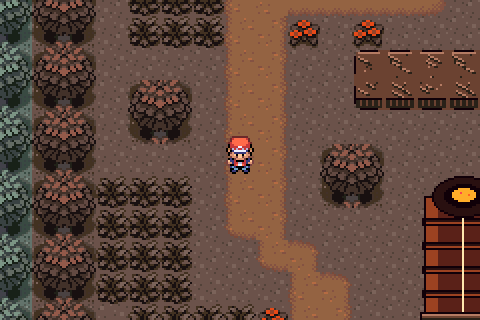
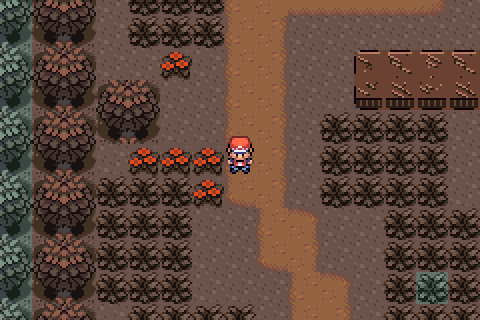
Route 2 v4: single long pipe through the cliff with back door (exit from the rear of the same building)
Claude-Session: https://claude.ai/code/session_01GQJ6VBZbBVtTh4mURN6n2L

diff --git a/docs/topaze/route2_gradient.py b/docs/topaze/route2_gradient.py
@@ -124,12 +124,12 @@ for y in range(2, H - 2, 2):
     tree(0, y); tree(W - 2, y)
 PATH = set()
 WALL_Y0, WALL_Y1 = 28, 33                         # falaise pleine largeur : la foret passe dessous
-HS, HN = (12, 28), (12, 20)                       # portails de pierre 3x3 (coin haut-gauche)
-DOOR_S, DOOR_N = (13, 33), (13, 25)
+HS = (12, 26)                       # portails de pierre 3x3 (coin haut-gauche)
+DOOR_S, DOOR_N = (13, 33), (13, 26)
 RIDGE_Y = [9, 16, 40, 47]
 GAPS = [(15, 20), (4, 9), (4, 9), (16, 21)]       # breches (nord -> sud)
 WAY_S = [(12, H - 3), (12, H - 5), (18, 50), (18, 44), (6, 43), (6, 37), (13, 36), (13, 34)]
-WAY_N = [(13, 26), (9, 26), (6, 20), (6, 13), (17, 12), (17, 6), (13, 3), (13, 1)]
+WAY_N = [(12, 25), (9, 25), (6, 20), (6, 13), (17, 12), (17, 6), (13, 3), (13, 1)]
 def seg(a, b):
     (x0, y0), (x1, y1) = a, b
     n = max(abs(x1 - x0), abs(y1 - y0))
@@ -139,6 +139,7 @@ def seg(a, b):
         PATH.add((int(round(x)) + 1, int(round(y)) + 1))
 for W_ in (WAY_S, WAY_N):
     for a_, b_ in zip(W_, W_[1:]): seg(a_, b_)
+PATH -= {(HS[0] + i, HS[1] + j) for i in range(3) for j in range(8)}
 PATH |= {(12, H - 1), (13, H - 1), (12, H - 2), (13, H - 2), (12, 0), (13, 0), (12, 1), (13, 1)}
 def path_id(x, y):
     N = (x, y - 1) in PATH or y == 0; S = (x, y + 1) in PATH or y == H - 1; Wn = (x - 1, y) in PATH; E = (x + 1, y) in PATH
@@ -157,11 +158,11 @@ for (x, y) in PATH:
 def dil(cells, r):
     return {(x + i, y + j) for (x, y) in cells for i in range(-r, r + 1) for j in range(-r, r + 1)}
 CLEAR = dil(PATH, 1)
-HS_CELLS_ = {(HS[0] + i, HS[1] + j) for i in range(3) for j in range(6)}
+HS_CELLS_ = {(HS[0] + i, HS[1] + j) for i in range(3) for j in range(8)}
 # ---- panneaux, PNJ, objets (cases reservees avant les falaises)
 SIGN_S, SIGN_N = (10, H - 4), (10, 5)
 NPC = {'hiker': (21, 52), 'miner': (18, 20), 'ether': (21, 43), 'heal': (21, 5)}
-RES = dil([SIGN_S, SIGN_N] + list(NPC.values()), 1) | dil({(HN[0] + i, HN[1] + j) for i in range(3) for j in range(6)}, 1) | dil(HS_CELLS_, 1)
+RES = dil([SIGN_S, SIGN_N] + list(NPC.values()), 1) | dil(HS_CELLS_, 1)
 for c in NPC.values(): OCC[c] = 'pnj'
 # ---- falaise pleine largeur (la foret passe dessous) ; les deux portails sont dedans / devant
 rnd = random.Random(2020)
@@ -171,7 +172,7 @@ def wob(seed_):
         v = max(-1, min(1, v + r.choice((-1, 0, 0, 1)))); out.append(v)
     return out
 WALL = set(); BLOB = {}; RIDGE = set()
-HS_CELLS = {(HS[0] + i, HS[1] + j) for i in range(3) for j in range(6)}
+HS_CELLS = {(HS[0] + i, HS[1] + j) for i in range(3) for j in range(8)}
 wt, wbm = wob(5), wob(9)
 for x in range(2, W - 2):
     top = WALL_Y0 + (1 if wt[x] > 0 else 0); bot = WALL_Y1 - (1 if wbm[x] < 0 else 0)
@@ -305,25 +306,34 @@ def vent_img(st):
     d.point((8, 7), fill=12)
     return im
 def tube_img(st):
-    im = ground_bg(48, 96, st); d = ImageDraw.Draw(im)
-    d.ellipse((0, 86, 47, 95), fill=13)
-    d.rectangle((4, 10, 43, 86), fill=7, outline=5)
-    d.rectangle((5, 11, 10, 85), fill=8); d.rectangle((38, 11, 42, 85), fill=6)
-    for y in range(22, 70, 12):
+    im = ground_bg(48, 128, st); d = ImageDraw.Draw(im)
+    d.ellipse((0, 118, 47, 127), fill=13)
+    d.rectangle((4, 16, 43, 118), fill=7, outline=5)
+    d.rectangle((5, 17, 10, 117), fill=8); d.rectangle((38, 17, 42, 117), fill=6)
+    for y in range(34, 100, 12):
         d.line([(5, y), (42, y)], fill=6); d.line([(5, y + 1), (42, y + 1)], fill=8)
         d.rectangle((3, y - 1, 44, y + 2), outline=5)
-    d.line([(23, 12), (23, 68)], fill=9)
-    d.ellipse((8, 0, 39, 20), fill=6, outline=5); d.ellipse((14, 4, 33, 15), fill=5)
-    d.ellipse((18, 6, 29, 12), fill=11); d.point((22, 8), fill=12); d.point((26, 9), fill=10)
-    d.rectangle((2, 68, 45, 88), fill=14, outline=5)
-    for y in range(71, 88, 5):
+    d.line([(23, 22), (23, 96)], fill=9)
+    d.ellipse((13, 56, 34, 74), fill=6, outline=5); d.ellipse((17, 60, 30, 70), fill=5)
+    d.ellipse((20, 62, 27, 68), fill=11); d.point((23, 64), fill=12); d.point((25, 66), fill=10)
+    d.rectangle((2, 0, 45, 20), fill=14, outline=5)
+    for y in range(4, 20, 5):
         d.line([(3, y), (44, y)], fill=13)
         for x in range(5 + (y % 2) * 4, 44, 8): d.line([(x, y), (x, y + 4)], fill=13)
-    d.line([(3, 69), (44, 69)], fill=15)
-    d.rectangle((18, 77, 29, 91), fill=5); d.ellipse((18, 72, 29, 82), fill=5)
-    d.rectangle((20, 79, 27, 91), fill=6); d.ellipse((20, 74, 27, 81), fill=6)
-    d.line([(21, 91), (26, 91)], fill=8)
-    for lx in (13, 34): d.rectangle((lx, 79, lx + 1, 82), fill=11); d.point((lx, 78), fill=12)
+    d.line([(3, 19), (44, 19)], fill=15)
+    d.rectangle((18, 4, 29, 15), fill=5); d.ellipse((18, 0, 29, 9), fill=5)
+    d.rectangle((20, 6, 27, 15), fill=6); d.ellipse((20, 2, 27, 9), fill=6)
+    d.line([(21, 15), (26, 15)], fill=8)
+    for lx in (13, 34): d.rectangle((lx, 5, lx + 1, 8), fill=11); d.point((lx, 4), fill=12)
+    d.rectangle((2, 100, 45, 120), fill=14, outline=5)
+    for y in range(103, 120, 5):
+        d.line([(3, y), (44, y)], fill=13)
+        for x in range(5 + (y % 2) * 4, 44, 8): d.line([(x, y), (x, y + 4)], fill=13)
+    d.line([(3, 101), (44, 101)], fill=15)
+    d.rectangle((18, 109, 29, 123), fill=5); d.ellipse((18, 104, 29, 114), fill=5)
+    d.rectangle((20, 111, 27, 123), fill=6); d.ellipse((20, 106, 27, 113), fill=6)
+    d.line([(21, 123), (26, 123)], fill=8)
+    for lx in (13, 34): d.rectangle((lx, 111, lx + 1, 114), fill=11); d.point((lx, 110), fill=12)
     return im
 def house_img(st):
     """portail de pierre 3x3 (la porte est la case basse centrale)."""
@@ -364,7 +374,7 @@ for st in range(3): ART[('sign', st)] = meta(sign_art(st), st)
 for st in range(3):
     ART[('vent', st)] = meta(vent_img(st), st); ART[('stump', st)] = meta(stump_img(st), st)
     pass
-b = tube_img(2); ART[('tube', 2)] = {(i, j): meta(b.crop((i * 16, j * 16, i * 16 + 16, j * 16 + 16)), 2) for j in range(6) for i in range(3)}
+b = tube_img(2); ART[('tube', 2)] = {(i, j): meta(b.crop((i * 16, j * 16, i * 16 + 16, j * 16 + 16)), 2) for j in range(8) for i in range(3)}
 def rock_img(mask, st, var):
     """case de falaise ; mask = bits N(1) E(2) S(4) O(8) : 1 si la voisine est aussi de la roche. Indices : 14 corps, 15 clair, 13 face sombre, 5 contour."""
     im = ground_bg(16, 16, st); d = ImageDraw.Draw(im)
@@ -412,12 +422,12 @@ art_big(*STONE)
 claim(*SIGN_S, 1, 1, 'panneau'); ART_PLACE[SIGN_S] = ART[('sign', 0)]
 claim(*SIGN_N, 1, 1, 'panneau'); ART_PLACE[SIGN_N] = ART[('sign', 2)]
 DOORS = {DOOR_S, DOOR_N}
-for (hx, hy), nm in ((HS, 'portail sud'), (HN, 'portail nord')):
-    for j in range(6):
+for (hx, hy), nm in ((HS, 'tuyau'),):
+    for j in range(8):
         for i in range(3):
             c = (hx + i, hy + j)
             if c in OCC and OCC[c] == 'roche': del OCC[c]
-    claim(hx, hy, 3, 6, nm)
+    claim(hx, hy, 3, 8, nm)
     for (i, j), k in ART[('tube', 2)].items(): ART_PLACE[(hx + i, hy + j)] = k
 for c in NPC.values(): assert c not in ART_PLACE, ('PNJ sur un decor', c)
 # ---- bosquets d'arbres

diff --git a/tools/topaze/emu/t_route2d.py b/tools/topaze/emu/t_route2d.py
@@ -14,4 +14,4 @@ path = [tuple(c) for c in info['path']]
 for y in (6, 13, 19):
     tgt = next(c for c in path if c[1] == y and tuple(c) not in P.B); print(tgt, goto(tgt, maxit=30))
 print(sh(['shot r2_north.ppm']))
-print('portail nord ->', goto((13, 26), maxit=30), sh(['key UP 40', 'run 120', 'shot r2_forestN.ppm']))
+print('portail nord ->', goto((13, 25), maxit=30), sh(['key DOWN 40', 'run 120', 'shot r2_forestN.ppm']))

diff --git a/docs/technique/ARCHITECTURE.md b/docs/technique/ARCHITECTURE.md
@@ -50,7 +50,7 @@ Le dépôt est celui de pokefirered ; seuls les éléments modifiés pour Topaze
 | **Opanihrum v1 – la cité de l'Opale noire (arène d'Hepha, Acier)** | Ville 42×40 (slot de Jadielle, `LAYOUT_VIRIDIAN_CITY`) construite avec les décors de **Rustboro** (pierre grise d'Émeraude) recolorés en ardoise bleu-nuit (« plus il est sombre, plus il cache de couleurs », cf. dialogue d'Hepha) + art procédural : monument d'opale noire à reflets irisés, enclumes, lingots. `docs/topaze/opanihrum_town.py` (génère carte + tilesets `general_opal` / `rustboro_opal`, **secondaire compacté** : seules les métatuiles utilisées sont gardées, 161+49 tuiles sur 384) puis `opanihrum_events.py`. Rendu d'aide au choix des morceaux : `docs/topaze/emrender.py` (`../pokeemerald` doit avoir `data/layouts/RustboroCity` en sparse-checkout). Bâtiments : **fonderie** (10×9, arène, 2 portes en (8,11)/(9,11), verrouillée par `VAR_MAP_SCENE_VIRIDIAN_CITY_GYM_DOOR`), école, maison, Centre (16,20), Boutique (27,20) + 6 bâtiments décoratifs, fontaine, parc, parterres, lampadaires, grille de fer. Vieil homme (barrage/tutoriel de capture) déplacé à la **porte nord** (20,2), déclencheur (21,2). Sorties = **warps** : nord Route 2 (`x=7..11,y=79`), sud Route 1 (`x=10..13,y=0`), ouest Route 22 (`x=47,y=6..9`) ; `IsTopazeStepWarpMap()` étendu à `LAYOUT_VIRIDIAN_CITY`/`ROUTE2`/`ROUTE22`. Respawn du Centre mis à jour (`heal_locations.h`). Ordre : `opanihrum_town.py` → `opanihrum_events.py` → supprimer `build/firered/data/maps.o` → `make`. Rendu : `docs/topaze/reference/opanihrum_v1.png`. |
 | **Pyropia v3 « en terrasses » – la cité du volcan (arène de Kay, Feu)** | Ville 48×40 (slot d'Argenta, `LAYOUT_PEWTER_CITY`) refaite avec les décors de **Lavaridge** (falaises rouges, bassin, arène, maisons à écailles) recolorés en braise : cendre sombre, terre brûlée, **bassin = lac de lave** (teinte HLS de la palette 8, comportement « eau » retiré : pas de Surf) + art procédural (vents de braise, braseros, obsidienne, **cairn de flamme** 3×3). `docs/topaze/pyropia_town.py` (carte + tilesets `general_ember` / `lavaridge_ember`, secondaire compacté 43+47 tuiles, **variantes miroir** pour la falaise est) puis `pyropia_events.py`. **v3 (« la ville est plate »)** : relief en **3 terrasses décalées** (sommet : arène entre deux lacs de lave ; milieu : Centre, Boutique, musée ; bas : maisons et place du cairn) séparées par des **murs de soutènement de 2 cases** (bandeau 625 + face 628) avec **escaliers** dessinés, joint vertical en falaise miroir ; grand lac de lave est (rectangle bordé de roche, `lake()`). L'avenue monte en ligne droite de la sortie sud à l'arène ; rue du milieu, rue du bas, rue est (sortie est → Route 3 en (47,25..26)). La v2 plate est gardée : `docs/topaze/reference/pyropia_v2.{png,py}`. Avant (v2) : **v3d** : toits du Centre et de la Boutique rétablis (rangée du haut gardée avec un **fond d'herbe** à la place de la falaise : option `ground` de `remap()`), coins des lacs sans morceaux de falaise (même option), murs de pins continus le long des bords (plus de trous), bandeau du bas en 620. **v3c** : musée = **façade dessinée** (colonnade, fronton « MUSEUM », 2 portes, bannière de flamme, `museum_art()` 160×64) ; 2 **maisons enterrables en plus** (près de l'arène, et à l'est) = nouvelles cartes `PewterCity_House3/4` (copie de l'intérieur House2, générées par `docs/topaze/pyropia_houses.py` : carte, scripts, textes, `map_groups.json`, `event_scripts.s`) ; 6 **PNJ d'ambiance** (mineur, enfant, scientifique, guide, grand-mère, campeur ; textes provisoires). Ordre : `pyropia_houses.py` → `pyropia_town.py` → `pyropia_events.py`. **v3b** : plus aucune maison sans porte : seules restent les 2 maisons qui ont un intérieur ; les vides sont comblés par des **cratères de lave** et des **amas d'obsidienne** (art 3×3), le musée redevient une **grande halle rouge 10×4 à 2 portes** (comme l'original), Centre et Boutique sans la rangée de toit qui montrait des morceaux de falaise ; `pyropia_town.py` vérifie par assertion que portes, sorties et escaliers forment **un seul réseau de chemins**. Sorties = **warps** (`IsTopazeStepWarpMap()` étendu à `LAYOUT_PEWTER_CITY`/`ROUTE3`), Route 2 (8..11,0) et Route 3 (0,9..12). Guides scriptés d'origine (guide de l'arène, du musée, assistant aux chaussures, arbre à couper) retirés/cachés (OnTransition) car leurs trajets étaient codés en dur ; chaussures de course déjà données au début. **Respawn du Centre** : désormais dans `src/data/heal_locations.json` (le `.h` est généré et ignoré par git ; l'ancienne édition du `.h` pour Opanihrum était perdue à chaque régénération : corrigée). Rendu : `docs/topaze/reference/pyropia_v2.png`. L'ancienne version (Argenta repeinte, `volcanic_pyropia.py`) est conservée dans l'historique. |
 | **Route 1 « route du dégradé » (carte entièrement nouvelle 26×54)** | `docs/topaze/route1_gradient.py` puis `route1_events.py`. Les couleurs glissent du **grenat** (sud, Grenalux) au **violet** puis à l'**opale noire** (nord, Opanihrum) : 3 étages de palettes (mélange en teinte HLS par le violet) ; les métatuiles d'Émeraude (herbe, arbres, fleurs, herbe haute, sable) sont recopiées dans le tileset secondaire `gradient_road` avec d'autres numéros de palette (emplacements : étage 0 = primaire 0,2,5 ; étage 1 = primaire 1,3,4 ; étage 2 = secondaire 7,8,9 ; art 6/10/11 ; panneau 12), l'étage de chaque case suit le gradient sud→nord + un champ lisse + un grain (fondu irrégulier). Chemin sinueux, 10 zones d'herbes hautes (rencontres), cristaux épars (prismes de grenat → dômes d'opale) et « pierre du dégradé » (3×3). Warps : sud (12..13,53) ↔ Grenalux, nord (14..17,0) ↔ Opanihrum. Le garçon et le panneau ont de nouveaux textes (plus de corniches). Primaire `general_gradient`. Rendu : `docs/topaze/reference/route1_gradient_v1.png`. **v5 (actuelle)** : transitions arbres/herbe corrigées (arbres et herbe de bordure ou voisine d'un arbre prennent le même étage lissé, sans grain). Rendu : `route1_gradient_v5.png`. **v4 (gardée de côté : `reference/route1_gradient_v4.{png,py}`, branche `route1-gradient-v4-reference`)** : retour « trop longue, le joueur va tout droit » → carte raccourcie **26×38** et chemin **obligatoirement en zigzag** : 4 crêtes de roche quasi pleine largeur (bords ondulés) avec chacune une brèche, côtés alternés (`RIDGE_Y`, `GAPS` dans `route1_gradient.py`) ; warps sud (12..13,37), nord (14..17,0). Rendu : `route1_gradient_v4.png`. **v3 (archivée, `route1_gradient_v3.png`)** : retour de l'utilisateur sur la v2 « trop brute, pas assez naturel, les murs ne se touchent pas » → chemin en méandre continu (`xc(y)` + remplissage ligne à ligne), plus de monticules ni de corniches ; 11 **plateaux rocheux organiques** (blobs de croissance compacte) dessinés en **autotile** (masque des 4 voisins, 3 variantes, teinte selon l'étage au centroïde) donc les murs se touchent et forment des crêtes continues ; pierre du dégradé et panneau (11,51) conservés. Rendu : `docs/topaze/reference/route1_gradient_v3.png`. **v2 (archivée dans le rendu `route1_gradient_v2.png`)** : chemin beaucoup plus sinueux (18 points, segments courts), 5 **murs de collines** (monticules de roche 2×2, métatuiles 131/132/139/140, palette de roche partagée en 12) qui ne laissent que le chemin, **corniches** (ledges, saut vers le sud) en terrasses, panneau dessiné en art ; herbes hautes tirées au hasard près du chemin. La v1 (chemin presque droit) est conservée : `docs/topaze/reference/route1_gradient_v1.{png,py}` et branche `route1-gradient-v1-reference`. |
-| **Route 2 « route du crépuscule » (carte entièrement nouvelle 26×56, Opanihrum → Pyropia)** | `docs/topaze/route2_gradient.py` puis `route2_events.py` (tilesets `general_dusk`/`dusk_road`, C : `GeneralDusk`/`DuskRoad`). Même technique de palettes par étages que la Route 1, dégradé opale noire → cendre grise → braise, interpolé en RVB (v2 : plus de violet ; la braise est atteinte à y=30, au pied de la falaise, donc on sent la forêt brûlée avant d'y entrer ; souches calcinées dispersées, plus denses près des portails). Falaise pleine largeur (y 27-32) : on ne passe du sud au nord que par la Forêt de Jade, via deux longs « tuyaux » de pierre dessinés (3×6, case basse centrale = porte, warps 0 nord / 1 sud ; v3 : le tuyau sud traverse toute l'épaisseur de la falaise, y 28-33, le nord est dressé devant, y 20-25). Warps : 2,3 sud → Opanihrum (ids 6,7) ; 4,5 nord → Pyropia (ids 7,8). Cristaux d'opale au sud, éclats d'obsidienne et fissures de braise au nord. Supprimés : maison, entrée de Diglett, bâtiment est, arbres à couper (contournaient la forêt). Référence : `docs/topaze/reference/route2_dusk_v1.png`. ATTENTION : relancer `pyropia_events.py` ou `opanihrum_events.py` réécrit les warps vers la Route 2 (refaire `route2_events.py`). |
+| **Route 2 « route du crépuscule » (carte entièrement nouvelle 26×56, Opanihrum → Pyropia)** | `docs/topaze/route2_gradient.py` puis `route2_events.py` (tilesets `general_dusk`/`dusk_road`, C : `GeneralDusk`/`DuskRoad`). Même technique de palettes par étages que la Route 1, dégradé opale noire → cendre grise → braise, interpolé en RVB (v2 : plus de violet ; la braise est atteinte à y=30, au pied de la falaise, donc on sent la forêt brûlée avant d'y entrer ; souches calcinées dispersées, plus denses près des portails). Falaise pleine largeur (y 27-32) : on ne passe du sud au nord que par la Forêt de Jade, via UN seul long « tuyau » de pierre dessiné (3×8, x 12-14, y 26-33) qui traverse la falaise : porte sud (13,33) = warp 1, porte arrière nord (13,26) = warp 0 (on sort par l'arrière du bâtiment qu'on voyait déjà). Warps : 2,3 sud → Opanihrum (ids 6,7) ; 4,5 nord → Pyropia (ids 7,8). Cristaux d'opale au sud, éclats d'obsidienne et fissures de braise au nord. Supprimés : maison, entrée de Diglett, bâtiment est, arbres à couper (contournaient la forêt). Référence : `docs/topaze/reference/route2_dusk_v1.png`. ATTENTION : relancer `pyropia_events.py` ou `opanihrum_events.py` réécrit les warps vers la Route 2 (refaire `route2_events.py`). |
 | **Forêt calcinée (ex Viridian Forest, « CINDER FOREST »)** | `docs/topaze/forest_cinder.py` : mêmes cartes, tilesets recopiés (`general_cinder` / `cinder_forest`, C : `GeneralCinder`/`CinderForest`) avec palettes cendre/charbon, image d'intro recolorée (`graphics/map_preview/viridian_forest/tiles.png`, original dans `docs/topaze/reference/forest_preview_orig.png`), nom changé dans `region_map_entry_strings.h`. Palette seule pour l'instant : pas encore de braises/troncs dessinés ni de Pokémon sauvages adaptés. Référence : `docs/topaze/reference/forest_cinder_v1.png`. |
 | Ville de départ Grenalux | `PalletTown` (`text.inc`), `region_map_entry_strings.h` |
 | Rival par défaut ZEPHYR | `data/text/new_game_intro.inc` |
